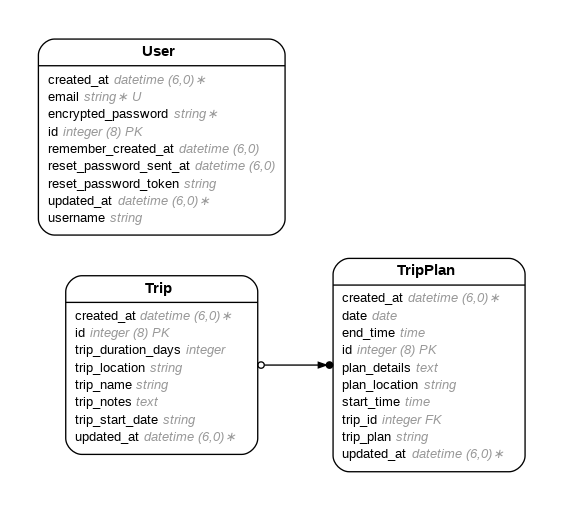
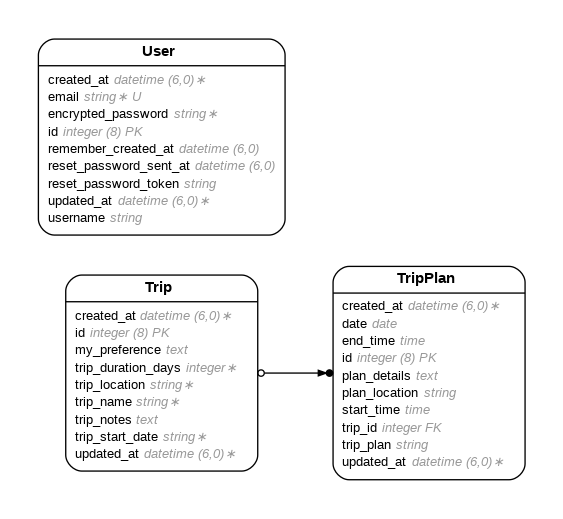
cmt

diff --git a/app/assets/stylesheets/application.css b/app/assets/stylesheets/application.css
@@ -27,3 +27,4 @@
   border-radius: 8px;
   overflow: hidden;
 }
+

diff --git a/app/controllers/trips_controller.rb b/app/controllers/trips_controller.rb
@@ -17,8 +17,6 @@ class TripsController < ApplicationController
     render({ :template => "trip_templates/show" })
   end
 
-
-
   def update_form
     the_id = params.fetch("path_id")
 
@@ -27,24 +25,6 @@ class TripsController < ApplicationController
     @the_trip = matching_trips.at(0)
 
     render({ :template => "trip_templates/edit_trip" })
-  end
-
-  def update
-    the_id = params.fetch("path_id")
-    the_trip = Trip.where({ :id => the_id }).at(0)
-
-    the_trip.trip_name = params.fetch("query_trip_name")
-    the_trip.trip_location = params.fetch("query_trip_location")
-    the_trip.trip_duration_days = params.fetch("query_trip_duration_days")
-    the_trip.trip_start_date = params.fetch("query_trip_start_date")
-    the_trip.trip_notes = params.fetch("query_trip_notes")
-
-    if the_trip.valid?
-      the_trip.save
-      redirect_to("/trips/#{the_trip.id}", { :notice => "Trip updated successfully." })
-    else
-      redirect_to("/trips/#{the_trip.id}", { :alert => the_trip.errors.full_messages.to_sentence })
-    end
   end
 
   def destroy
@@ -56,16 +36,16 @@ class TripsController < ApplicationController
     redirect_to("/trips", { :notice => "Trip deleted successfully." })
   end
 
+  def update
+    the_id = params.fetch("path_id")
+    the_trip = Trip.where({ :id => the_id }).at(0)
 
-  def create
-    the_trip = Trip.new
     the_trip.trip_name = params.fetch("query_trip_name")
     the_trip.trip_location = params.fetch("query_trip_location")
     the_trip.trip_duration_days = params.fetch("query_trip_duration_days")
     the_trip.trip_start_date = params.fetch("query_trip_start_date")
     the_trip.trip_notes = params.fetch("query_trip_notes")
-    
-# ============================== AI Ouput ===================================
+    # ============================== AI Ouput ===================================
     require "bundler/setup"
     require "ai-chat"
     require "dotenv/load"
@@ -79,72 +59,165 @@ class TripsController < ApplicationController
     @trip_notes = the_trip.trip_notes
     @trip_name = the_trip.trip_name
 
-    @user_input = "I am traveling to " + @trip_location + ", from " + @trip_start_date + ", for " + @trip_duration_days.to_s + " days in total, and specifically, I have these requirement: " + @trip_notes + "my trip name is: " + @trip_name +". Can you build day by day, activity by activity, what should i do"
-# ===========================================================================
+    @user_input = "I am traveling to " + @trip_location + ", from " + @trip_start_date + ", for " + @trip_duration_days.to_s + " days in total, and specifically, I have these requirement: " + @trip_notes + "my trip name is: " + @trip_name + ". Can you build day by day, activity by activity, what should i do"
+    # ===========================================================================
     if the_trip.valid?
       the_trip.save
-# ===========================================================================      
+      # ===========================================================================
       i = AI::Chat.new
       i.system("You are an trip planner. Based on user's input of where and when they are travelling to, plus their specific requirements, come up with a trip plan with start time, end time, activity, and location for each day during the traveling period. Build day by day, activity by activity, detailed agenda")
 
       i.system(<<~SYS)
-      You are a trip planner. Based on the user's input, return a JSON object only,
-      no markdown, no explanation.
-      The JSON must look exactly like this:
-      {
-        "days": [
-          {
-            "date": "YYYY-MM-DD",
-            "items": [
-              {
-                "start_time": "HH:MM",
-                "end_time": "HH:MM",
-                "activity": "short activity name",
-                "location": "short location on google map / notes"
-                "commute": "short location commute notes"
-              }
-            ]
-          }
-        ]
-      }
-      - date: the calendar date of that day of the trip
-      - times: local time, 24-hour "HH:MM"
-      - activity: 1–2 sentence description
-      - location: short location name on google map
-      - commute: 1–2 sentence notes on commuting to the location
+        You are a trip planner. Based on the user's input, return a JSON object only,
+        no markdown, no explanation.
+        The JSON must look exactly like this:
+        {
+          "days": [
+            {
+              "date": "YYYY-MM-DD",
+              "items": [
+                {
+                  "start_time": "HH:MM",
+                  "end_time": "HH:MM",
+                  "activity": "short activity name",
+                  "location": "short location on google map / notes"
+                  "commute": "short location commute notes"
+                }
+              ]
+            }
+          ]
+        }
+        - date: the calendar date of that day of the trip
+        - times: local time, 24-hour "HH:MM"
+        - activity: 1–2 sentence description
+        - location: short location name on google map
+        - commute: 1–2 sentence notes on commuting to the location
 
-      Output ONLY valid JSON that matches this schema.
-    SYS
+        Output ONLY valid JSON that matches this schema.
+      SYS
 
-    i.user(@user_input)
-    @response = i.generate!
-    raw = @response[:content]          # JSON string from the model
+      i.user(@user_input)
+      @response = i.generate!
+      raw = @response[:content]          # JSON string from the model
 
-    @plan = JSON.parse(raw, symbolize_names: true)
-    
-    ActiveRecord::Base.transaction do
-    the_trip.trip_plans.destroy_all
+      @plan = JSON.parse(raw, symbolize_names: true)
 
-    @plan[:days].each do |day|
-      date = Date.parse(day[:date])
+      ActiveRecord::Base.transaction do
+        the_trip.trip_plans.destroy_all
 
-      day[:items].each do |item|
+        @plan[:days].each do |day|
+          date = Date.parse(day[:date])
 
-        TripPlan.create!(
-          trip: the_trip,
-          #trip_id: the_trip.id,
-          date: date,
-          start_time: Time.parse(item[:start_time]),
-          end_time:   Time.parse(item[:end_time]),
-          trip_plan:  item[:activity],
-          plan_location: item[:location]
-          #plan_details: item[:commute]
-        )
+          day[:items].each do |item|
+            TripPlan.create!(
+              trip: the_trip,
+              #trip_id: the_trip.id,
+              date: date,
+              start_time: Time.parse(item[:start_time]),
+              end_time: Time.parse(item[:end_time]),
+              trip_plan: item[:activity],
+              plan_location: item[:location],
+              plan_details: item[:commute]
+            )
+          end
+        end
       end
+      # ===========================================================================
+      #render template: "trip_templates/ai_agenda"
+      redirect_to("/trips/#{the_trip.id}", { :notice => "Trip updated successfully." })
+    else
+      redirect_to("/trips", { :alert => the_trip.errors.full_messages.to_sentence })
     end
   end
-# ===========================================================================
-    #render template: "trip_templates/ai_agenda"
+
+
+  def create
+    the_trip = Trip.new
+    the_trip.trip_name = params.fetch("query_trip_name")
+    the_trip.trip_location = params.fetch("query_trip_location")
+    the_trip.trip_duration_days = params.fetch("query_trip_duration_days")
+    the_trip.trip_start_date = params.fetch("query_trip_start_date")
+    the_trip.trip_notes = params.fetch("query_trip_notes")
+
+    # ============================== AI Ouput ===================================
+    require "bundler/setup"
+    require "ai-chat"
+    require "dotenv/load"
+    require "json"
+    require "time"
+
+    @the_id = the_trip.id
+    @trip_location = the_trip.trip_location
+    @trip_duration_days = the_trip.trip_duration_days
+    @trip_start_date = the_trip.trip_start_date
+    @trip_notes = the_trip.trip_notes
+    @trip_name = the_trip.trip_name
+
+    @user_input = "I am traveling to " + @trip_location + ", from " + @trip_start_date + ", for " + @trip_duration_days.to_s + " days in total, and specifically, I have these requirement: " + @trip_notes + "my trip name is: " + @trip_name + ". Can you build day by day, activity by activity, what should i do"
+    # ===========================================================================
+    if the_trip.valid?
+      the_trip.save
+      # ===========================================================================
+      i = AI::Chat.new
+      i.system("You are an trip planner. Based on user's input of where and when they are travelling to, plus their specific requirements, come up with a trip plan with start time, end time, activity, and location for each day during the traveling period. Build day by day, activity by activity, detailed agenda")
+
+      i.system(<<~SYS)
+        You are a trip planner. Based on the user's input, return a JSON object only,
+        no markdown, no explanation.
+        The JSON must look exactly like this:
+        {
+          "days": [
+            {
+              "date": "YYYY-MM-DD",
+              "items": [
+                {
+                  "start_time": "HH:MM",
+                  "end_time": "HH:MM",
+                  "activity": "short activity name",
+                  "location": "short location on google map / notes",
+                  "commute": "short location commute notes"
+                }
+              ]
+            }
+          ]
+        }
+        - date: the calendar date of that day of the trip
+        - times: local time, 24-hour "HH:MM"
+        - activity: 1–2 sentence description
+        - location: short location name on google map
+        - commute: 1–2 sentence notes on commuting to the location
+
+        Output ONLY valid JSON that matches this schema.
+      SYS
+
+      i.user(@user_input)
+      @response = i.generate!
+      raw = @response[:content]          # JSON string from the model
+
+      @plan = JSON.parse(raw, symbolize_names: true)
+
+      ActiveRecord::Base.transaction do
+        the_trip.trip_plans.destroy_all
+
+        @plan[:days].each do |day|
+          date = Date.parse(day[:date])
+
+          day[:items].each do |item|
+            TripPlan.create!(
+              trip: the_trip,
+              #trip_id: the_trip.id,
+              date: date,
+              start_time: Time.parse(item[:start_time]),
+              end_time: Time.parse(item[:end_time]),
+              trip_plan: item[:activity],
+              plan_location: item[:location],
+              plan_details: item[:commute]
+            )
+          end
+        end
+      end
+      # ===========================================================================
+      #render template: "trip_templates/ai_agenda"
       redirect_to("/trips/#{the_trip.id}", { :notice => "Trip created successfully." })
     else
       redirect_to("/trips", { :alert => the_trip.errors.full_messages.to_sentence })

diff --git a/db/schema.rb b/db/schema.rb
@@ -10,7 +10,7 @@
 #
 # It's strongly recommended that you check this file into your version control system.
 
-ActiveRecord::Schema[8.0].define(version: 2025_12_05_173047) do
+ActiveRecord::Schema[8.0].define(version: 2025_12_08_212423) do
   # These are extensions that must be enabled in order to support this database
   enable_extension "pg_catalog.plpgsql"
 
@@ -176,6 +176,7 @@ ActiveRecord::Schema[8.0].define(version: 2025_12_05_173047) do
     t.text "trip_notes"
     t.datetime "created_at", null: false
     t.datetime "updated_at", null: false
+    t.text "my_preference"
   end
 
   create_table "users", force: :cascade do |t|

diff --git a/app/models/trip.rb b/app/models/trip.rb
@@ -3,6 +3,7 @@
 # Table name: trips
 #
 #  id                 :bigint           not null, primary key
+#  my_preference      :text
 #  trip_duration_days :integer
 #  trip_location      :string
 #  trip_name          :string

diff --git a/db/migrate/20251208212423_add_my_preference_to_trips.rb b/db/migrate/20251208212423_add_my_preference_to_trips.rb
@@ -1,0 +1,5 @@
+class AddMyPreferenceToTrips < ActiveRecord::Migration[8.0]
+  def change
+    add_column :trips, :my_preference, :text
+  end
+end
